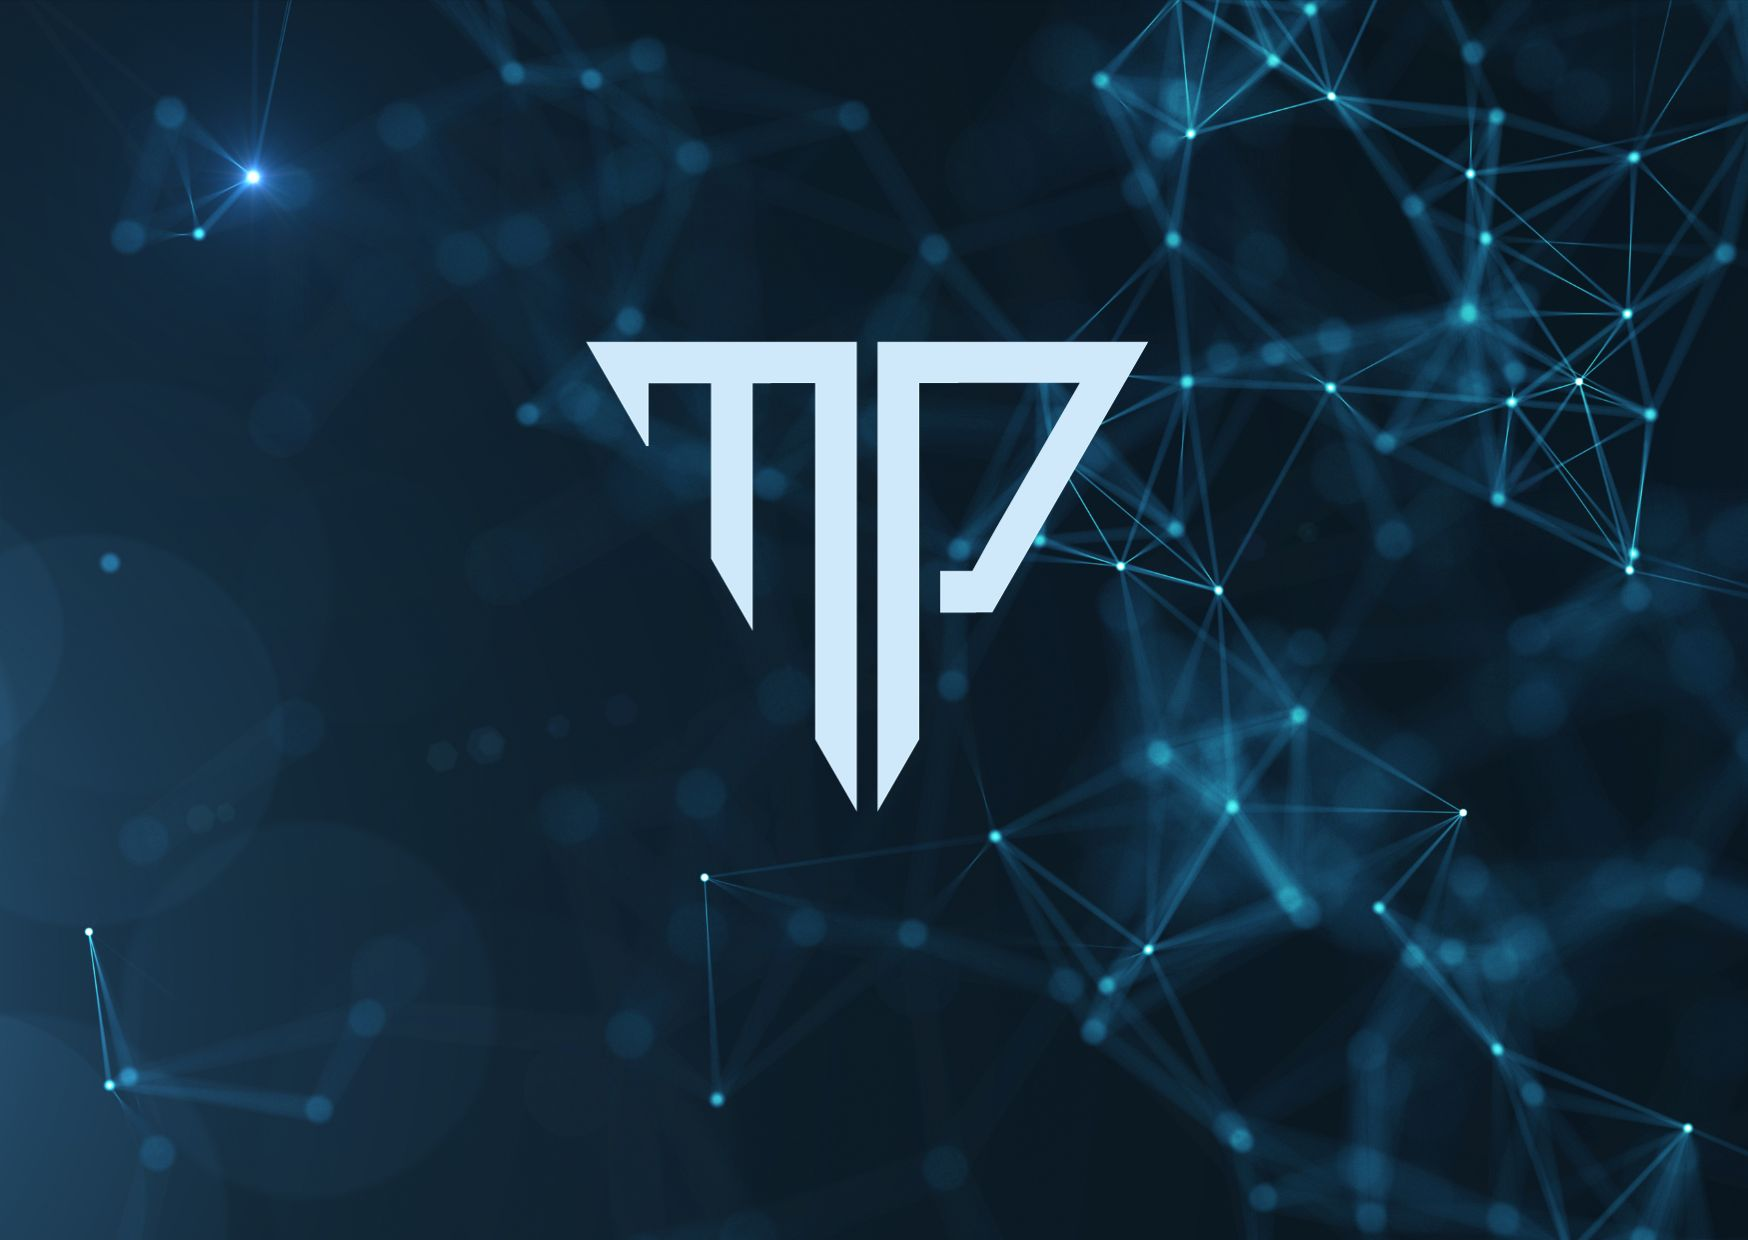
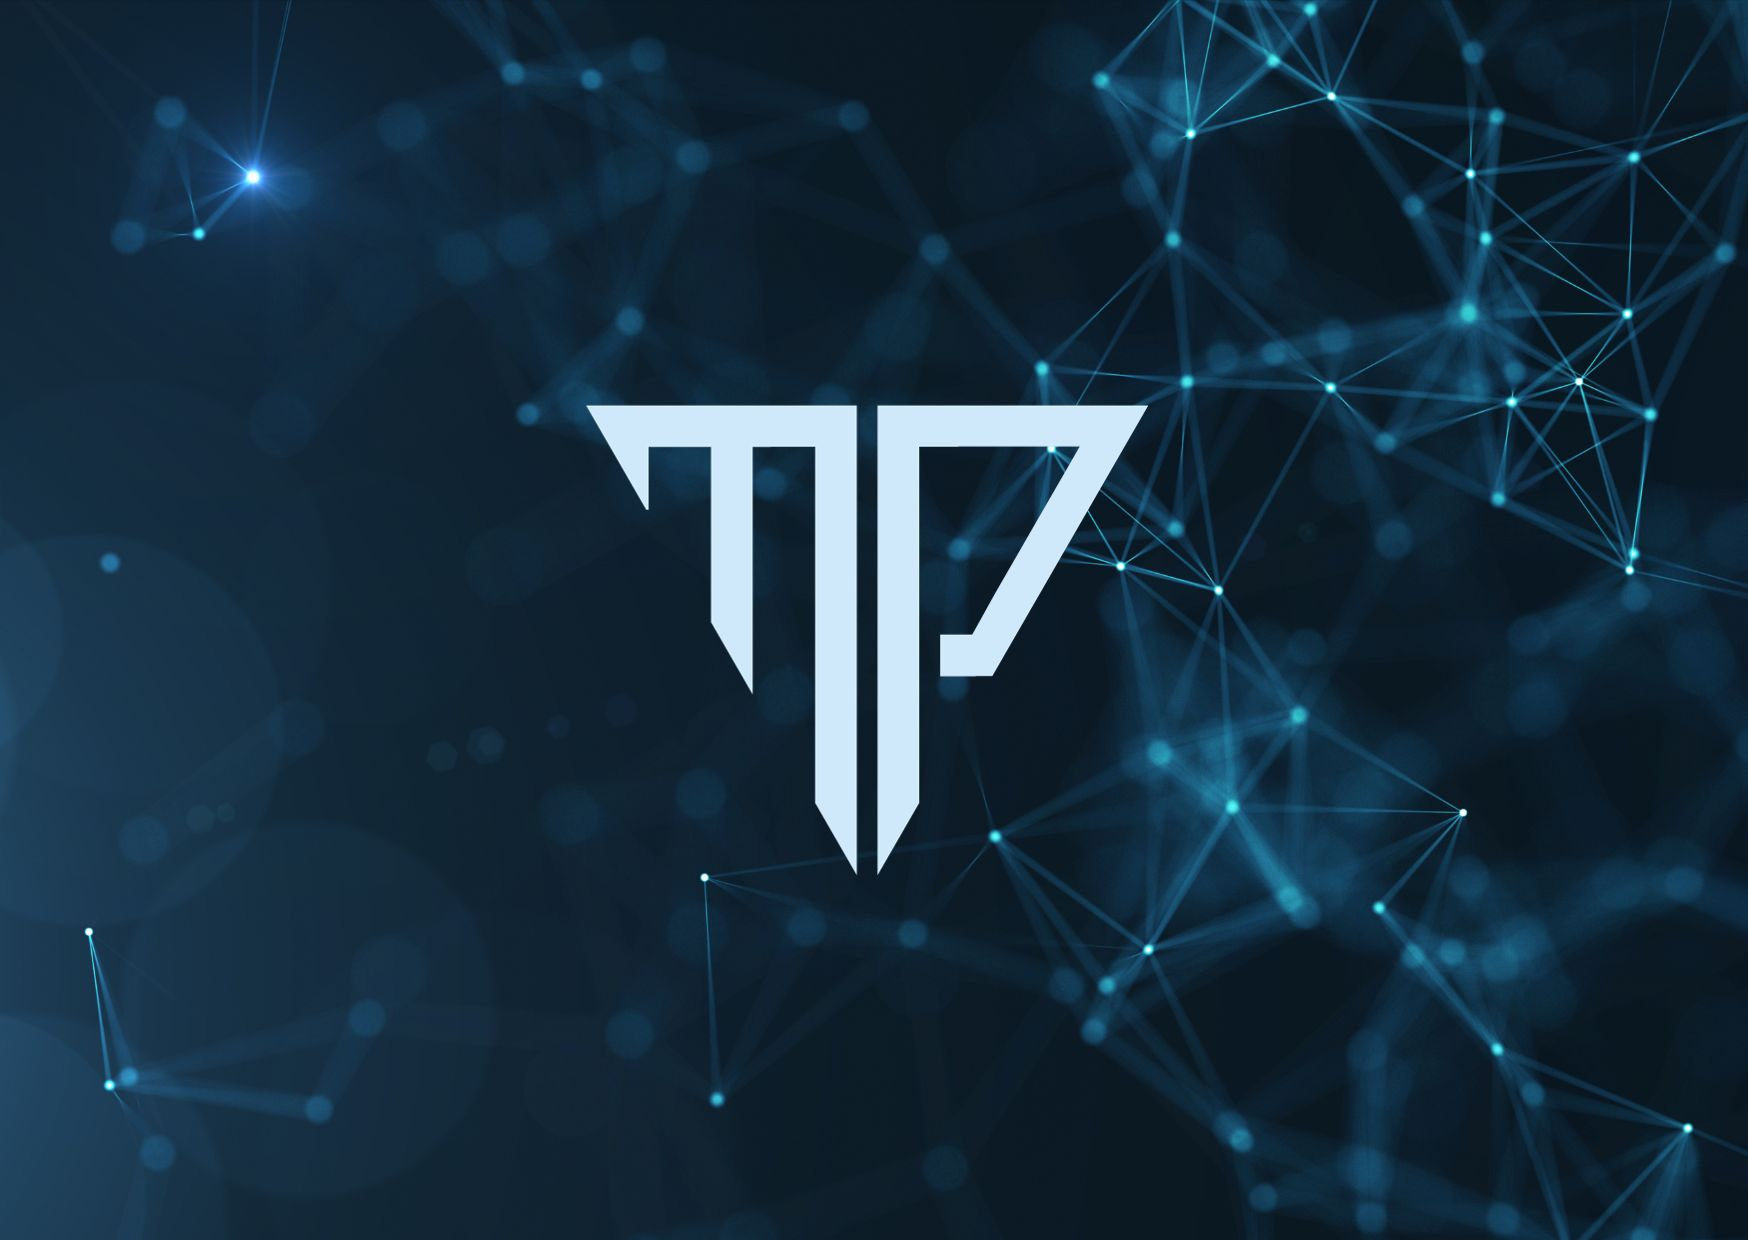
Added contact component and replaced image

Changed region(s): [[0.3398, 0.2758, 0.6487, 0.5516], [0.4634, 0.6129, 0.5252, 0.7048], [0.4016, 0.4597, 0.4325, 0.5516]]

diff --git a/src/app/modules/site-components/site-components.module.ts b/src/app/modules/site-components/site-components.module.ts
@@ -2,7 +2,6 @@ import { NgModule } from '@angular/core';
 import { CommonModule } from '@angular/common';
 import { WelcomeComponent } from 'src/app/components/welcome/welcome.component';
 import { FooterComponent } from 'src/app/components/footer/footer.component';
-import { AboutComponent } from 'src/app/components/about/about.component';
 import { LoadingComponent } from 'src/app/components/loading/loading.component';
 
 import { FontAwesomeModule, FaIconLibrary } from '@fortawesome/angular-fontawesome';
@@ -18,6 +17,7 @@ import {
 } from '@fortawesome/free-solid-svg-icons';
 import { ProjectsComponent } from 'src/app/components/projects/projects.component';
 import { ProjectComponent } from 'src/app/components/projects/project/project.component';
+import { ContactComponent } from 'src/app/components/contact/contact.component';
 
 
 
@@ -27,16 +27,16 @@ import { ProjectComponent } from 'src/app/components/projects/project/project.co
     FooterComponent,
     ProjectsComponent,
     ProjectComponent,
-    AboutComponent,
-    LoadingComponent
+    LoadingComponent,
+    ContactComponent
   ],
   exports: [
     WelcomeComponent,
     FooterComponent,
     ProjectsComponent,
     ProjectComponent,
-    AboutComponent,
-    LoadingComponent
+    LoadingComponent,
+    ContactComponent
   ],
   imports: [
     CommonModule,

diff --git a/src/app/components/contact/contact.component.spec.ts b/src/app/components/contact/contact.component.spec.ts
@@ -1,16 +1,16 @@
 import { ComponentFixture, TestBed } from '@angular/core/testing';
 
-import { AboutComponent } from './about.component';
+import { ContactComponent } from './contact.component';
 
-describe('AboutComponent', () => {
-  let component: AboutComponent;
-  let fixture: ComponentFixture<AboutComponent>;
+describe('ContactComponent', () => {
+  let component: ContactComponent;
+  let fixture: ComponentFixture<ContactComponent>;
 
   beforeEach(() => {
     TestBed.configureTestingModule({
-      declarations: [AboutComponent]
+      declarations: [ContactComponent]
     });
-    fixture = TestBed.createComponent(AboutComponent);
+    fixture = TestBed.createComponent(ContactComponent);
     component = fixture.componentInstance;
     fixture.detectChanges();
   });

diff --git a/src/app/components/projects/project/project.component.ts b/src/app/components/projects/project/project.component.ts
@@ -10,8 +10,7 @@ export class ProjectComponent {
   @Input() project: ProjectItem;
   @ViewChild('image') image: ElementRef;
   @ViewChild('loading') loading: ElementRef;
-  imageLoaded: boolean = false;
-
+  
   constructor(private renderer: Renderer2) { }
 
   public async onLoadImage(image: HTMLImageElement, loading: HTMLElement): Promise<void> {

diff --git a/src/app/app.component.html b/src/app/app.component.html
@@ -5,6 +5,7 @@
     <app-navbar></app-navbar>
     <app-welcome></app-welcome>
     <app-projects></app-projects>
+    <app-contact></app-contact>
     <app-footer></app-footer>
 </section>
 <ng-particles class="particles" [id]="id" [options]="particlesOptions" [particlesInit]="particlesInit"></ng-particles>

diff --git a/src/app/components/contact/contact.component.html b/src/app/components/contact/contact.component.html
@@ -1,0 +1,10 @@
+<section class="contact pt-5 pb-5">
+    <div class="container">
+        <div class="d-flex">
+            <h1 class="title">Contact me</h1>
+        </div>
+        <div class="contact-form">
+            
+        </div>
+    </div>
+</section>

diff --git a/src/app/components/contact/contact.component.ts b/src/app/components/contact/contact.component.ts
@@ -1,0 +1,10 @@
+import { Component } from '@angular/core';
+
+@Component({
+  selector: 'app-contact',
+  templateUrl: './contact.component.html',
+  styleUrls: ['./contact.component.scss']
+})
+export class ContactComponent {
+
+}

diff --git a/src/app/app.module.ts b/src/app/app.module.ts
@@ -10,7 +10,7 @@ import { SiteComponentsModule } from './modules/site-components/site-components.
 
 @NgModule({
   declarations: [
-    AppComponent,
+    AppComponent
   ],
   imports: [
     BrowserModule,
